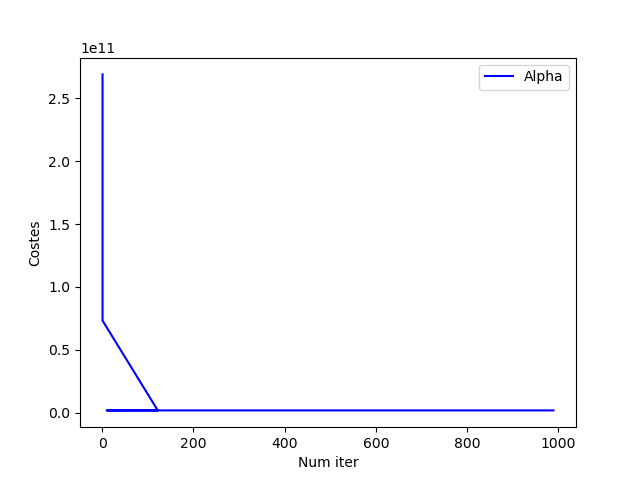
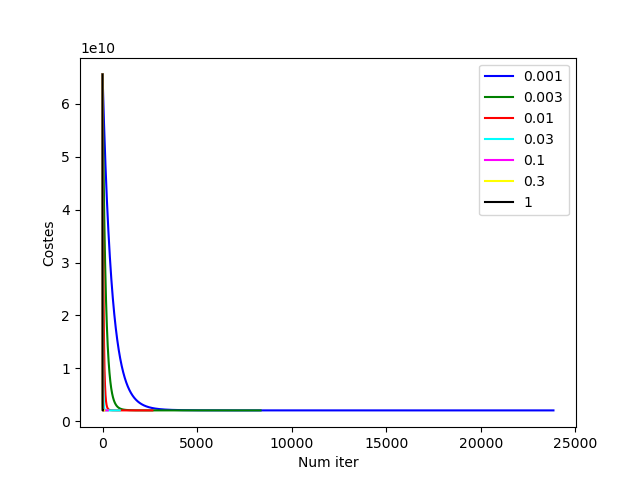
Finished part2

diff --git a/Practica1/part2/prueba2.py b/Practica1/part2/prueba2.py
@@ -1,18 +1,24 @@
+from mpl_toolkits.mplot3d import Axes3D
 import numpy as np
 import matplotlib.pyplot as plt
+from matplotlib import cm
+from matplotlib.ticker import LinearLocator, FormatStrFormatter
 from pandas.io.parsers import read_csv
 
-def calcula_normalizado(valor, med, desv):
-    return (valor - med)/desv
-
-def normaliza(X):
-    medias = np.array([])
-    desvs = np.array([])
-    for i in range(1, np.shape(X)[1]):
-        medias = np.append(medias, np.mean(X[:,i]))
-        desvs = np.append(desvs, np.std(X[:,i]))
-        X[:,i] = calcula_normalizado(X[:,i], medias[i-1], desvs[i-1])
-    return (medias, desvs)
+def make_data(t0_range, t1_range, X, Y):
+    """Genera las matrices X,Y,Z para generar un plot en 3D
+    """
+    step = 0.1
+    Theta0 = np.arange(t0_range[0], t0_range[1], step)
+    Theta1 = np.arange(t1_range[0], t1_range[1], step)
+    Theta0, Theta1 = np.meshgrid(Theta0, Theta1)
+    # Theta0 y Theta1 tienen las misma dimensiones, de forma que
+    # cogiendo un elemento de cada uno se generan las coordenadas x,y
+    # de todos los puntos de la rejilla
+    Coste = np.empty_like(Theta0)
+    for ix, iy in np.ndindex(Theta0.shape):
+        Coste[ix, iy] = coste(X, Y, [[Theta0[ix, iy]], [Theta1[ix, iy]]])
+    return [Theta0, Theta1, Coste]
 
 def carga_csv(file_name):
     valores = read_csv(file_name, header = None).values
@@ -27,7 +33,6 @@ def coste(X, Y, Theta):
     return aux.sum() / (2*len(X))
 
 def descenso_gradiente(X, Y, alpha, Theta, n):
-    
     ths = np.array([[0.]])
     temps = np.array([[0.]])
     for i in range(n-1):
@@ -49,38 +54,29 @@ def descenso_gradiente(X, Y, alpha, Theta, n):
         if (costes[-2] - costes[-1]) < 0.001:
             break
     #print(j)
-    return (Theta, costes, j) 
-         
+    return (Theta, costes, j)          
 
-datos = carga_csv("ex1data2.csv")
+datos = carga_csv("ex1data1.csv")
 
 X = datos[:, :-1]
-Y = datos[:, -1:]
-
 m = np.shape(X)[0]
-X = np.hstack([np.ones([m,1]), X])
+
+Y = datos[:, -1:]
 n = np.shape(X)[1]
 
-Xp = np.copy(X)
+X = np.hstack([np.ones([m,1]), X])
 
-medias, desvs = normaliza(X)
+alphas = np.array([0.001, 0.003, 0.01, 0.03, 0.1, 0.3, 1])
+
+colors = np.array(["blue","green","red","cyan","magenta","yellow","black"])
+labels = np.array(["0.001", "0.003", "0.01", "0.03", "0.1", "0.3", "1"])
+
+plt.figure()
 
 Theta = np.array([[0.]])
 
 for i in range(n-1):
     Theta = np.vstack((Theta, [0.]))
-
-
-#alpha = 0.01
-
-#Theta, ths, costes = descenso_gradiente(X, Y, alpha, Theta, n) 
-
-j = 0
-alphas = np.array([0.001, 0.003, 0.01, 0.03, 0.1, 0.3, 1])
-
-colors = np.array(["blue","green","red","cyan","magenta","yellow","black"])
-labels = np.array(["0.001", "0.003", "0.01", "0.03", "0.1", "0.3", "1"])
-plt.figure()
 
 for i in range(np.shape(alphas)[0]):
     #j = j+1
@@ -90,34 +86,9 @@ for i in range(np.shape(alphas)[0]):
     plt.plot(np.arange(iter + 1), costes, c=colors[i], label=labels[i], linestyle='-')
 
 plt.legend()
-
 plt.xlabel("Num iter")
 plt.ylabel("Costes")
-
 plt.savefig("alphas.png")
-
-#Xq = np.array([2500, 3])
-Xq = np.array([2600,3])
-
-Xq_norm = calcula_normalizado(np.transpose(Xq), medias, desvs)
-Xq_norm = np.hstack([np.ones([1]), Xq_norm])
-
-
-Xq = np.hstack([np.ones([1]), Xq])
-
-Theta, costes, iter = descenso_gradiente(X, Y, 1.2, Theta, n)
-
-Yp = hipotesis(Xq_norm, Theta)
-
-X = Xp
-aux = np.dot(np.transpose(X), X)
-aux = np.linalg.pinv(aux)
-aux = np.dot(aux, X.transpose())
-eqTheta = np.dot(aux, Y)
-
-Y = hipotesis(Xq, eqTheta)
-
-print(Yp, Y)
 
 print("FIN")
 

diff --git a/Practica1/part1/Practica1_p1_v2.py b/Practica1/part1/Practica1_p1_v2.py
@@ -48,7 +48,7 @@ def descenso_gradiente(X, Y, alpha):
         ths0 = np.append(ths0, temp0)
         ths1 = np.append(ths1, temp0)
         costes = np.append(costes, coste(X,Y, theta))
-        if (costes[-2] - costes[-1]) < 0.000000001:
+        if (costes[-2] - costes[-1]) < 0.001:
             break
         #print(theta)
         #print(coste(X,Y, theta))

diff --git a/Practica1/part1/Practica1_p1_v1.py b/Practica1/part1/Practica1_p1_v1.py
@@ -93,7 +93,7 @@ arrays = make_data([-10, 10], [-1, 4], X, Y)
 
 
 #Plot the surface
-surf = ax.plot_surface(arrays[0], arrays[1], arrays[2], cmap=cm.coolwarm, linewidth= 0, antialiased=False)
+surf = ax.plot_surface(arrays[0], arrays[1], arrays[2], cmap=cm.coolwarm, linewidth=0, antialiased=False)
 
 #Customize the z and x axis
 ax.set_zlim(0, 700)
